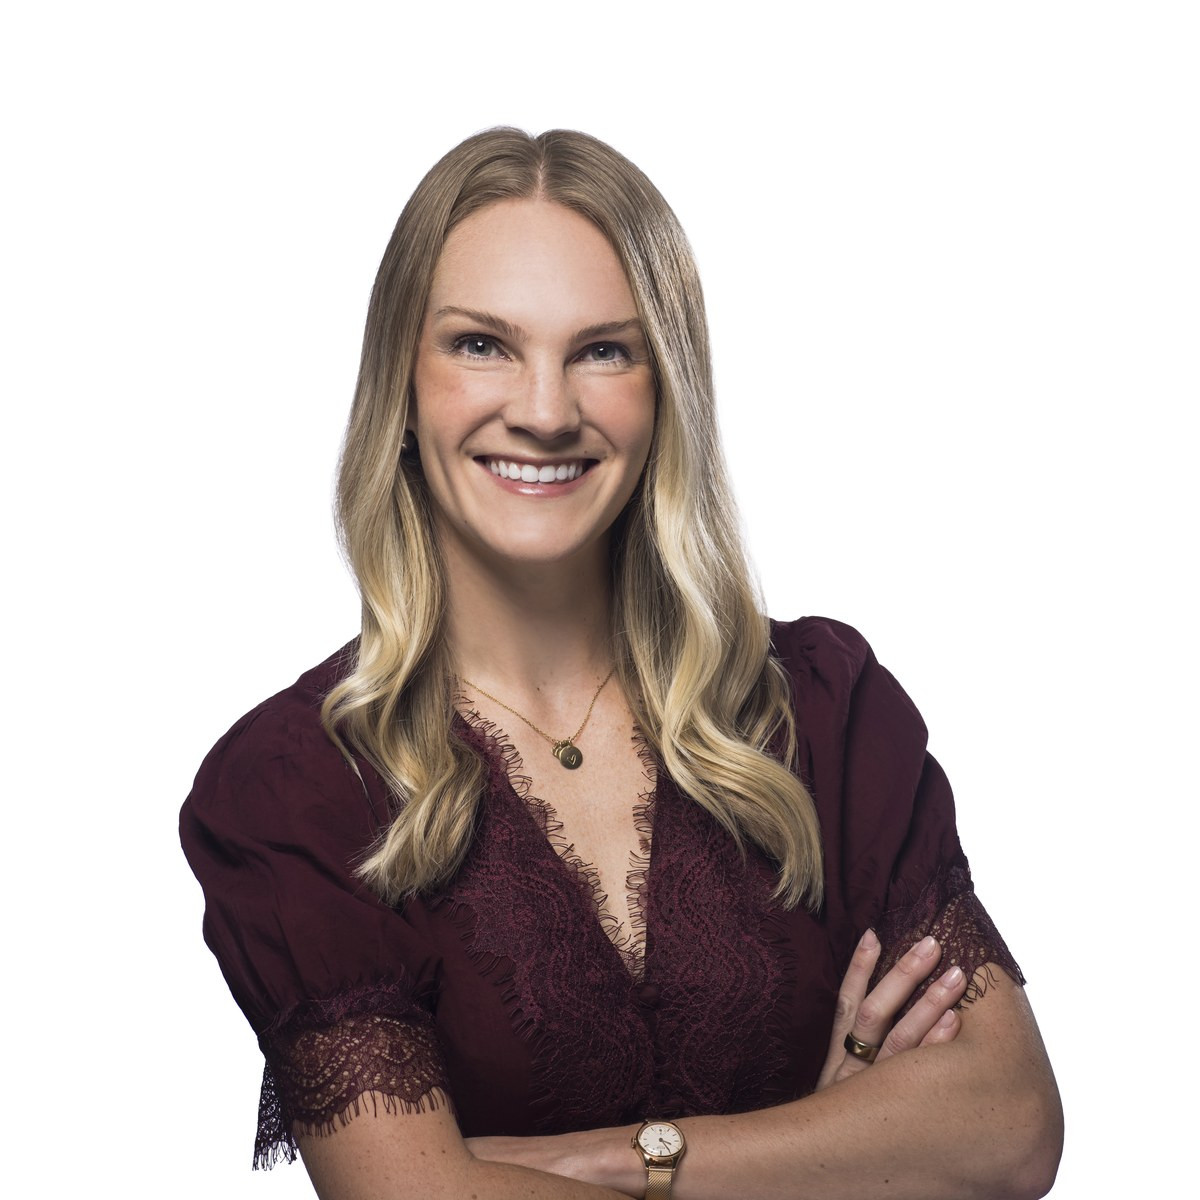
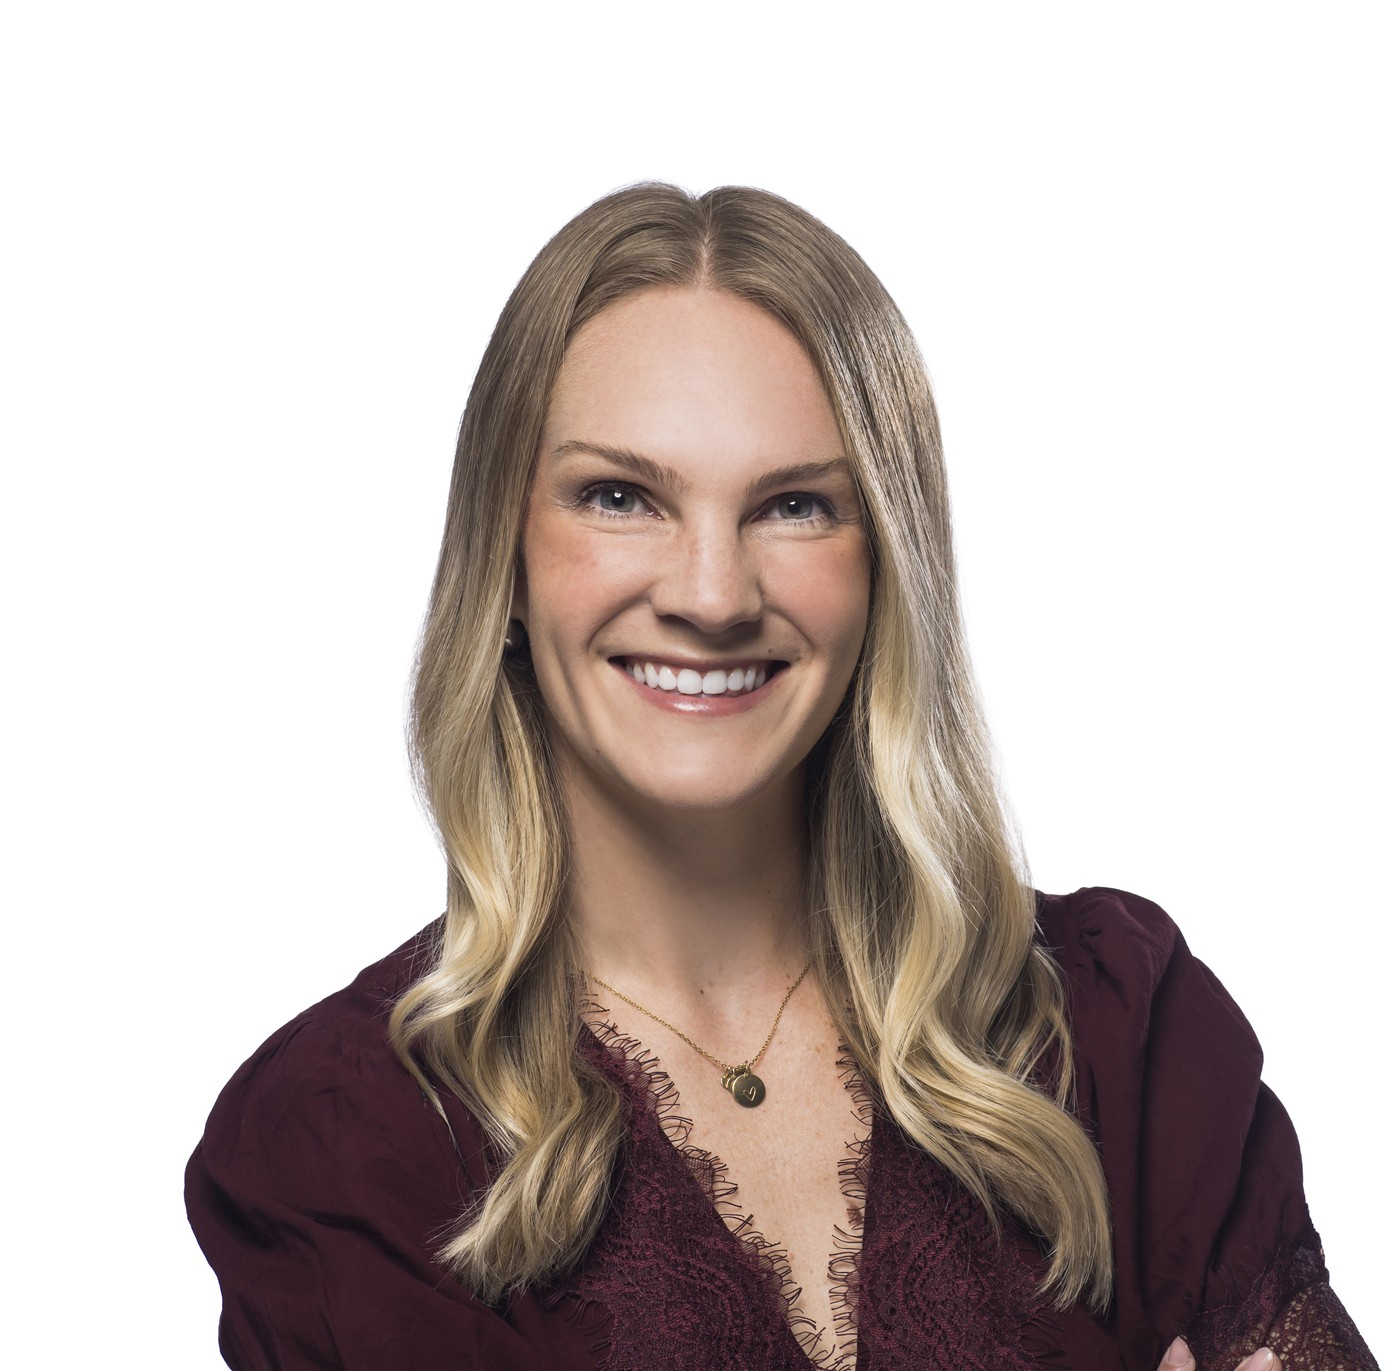
Proposal: team photos cropped to match the pitch, from originals

diff --git a/proposal/assets/css/proposal.css b/proposal/assets/css/proposal.css
@@ -306,6 +306,8 @@ img { display: block; max-width: 100%; }
 .person { display: flex; flex-direction: column; min-height: 0; }
 .person > .placeholder,
 .person > .photo { flex: 0 1 auto; min-height: 0; aspect-ratio: 3 / 4; }
+/* Headshots are cropped near square, like the pitch deck's team tags. */
+.person > img.photo { aspect-ratio: 1184 / 1160; }
 .person > .subhead { margin-top: max(1.15cqw, calc(12px * var(--floor))); }
 .person > .label { margin-top: max(0.42cqw, calc(4px * var(--floor))); }
 
